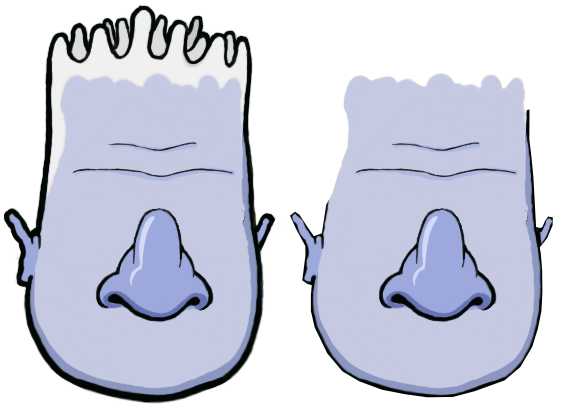
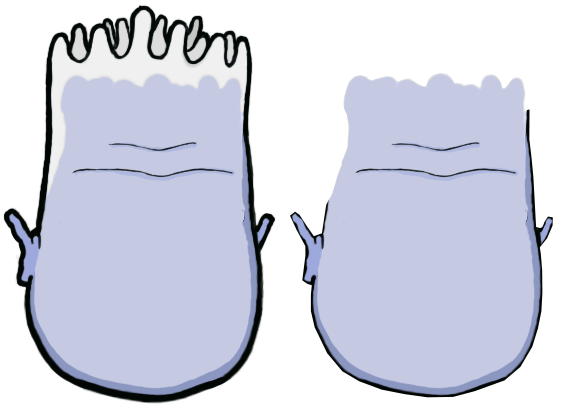
Added noses. Clicking a part multiple times set focus to next part at coords.

Changed region(s): [[0.1502, 0.5, 0.3905, 0.7941], [0.6608, 0.5, 0.9011, 0.7941]]

diff --git a/src/ui/partAuthoring/PartUiManager.ts b/src/ui/partAuthoring/PartUiManager.ts
@@ -1,22 +1,26 @@
 import {
-  createMoveOperation, IPartMovedCallback,
+  createMoveOperation, 
+  hasPartDragged,
+  IPartMovedCallback,
   MoveOperation,
   onCompleteMove,
   onMoveDuringDrag
 } from "./moveOperation";
 import {
   createResizeOperation,
-  findResizeButtonAtCoords, IPartResizedCallback,
+  findResizeButtonAtCoords, 
+  IPartResizedCallback,
   onCompleteResize,
   onResizeDuringDrag,
   ResizeOperation
 } from "./resizeOperation";
 import {
-  findPartAtCoords, 
-  findPartByComponent, 
-  hidePartUi, 
-  loadPartUi, 
-  showPartUi, 
+  findNextPartAtCoords,
+  findPartAtCoords,
+  findPartByComponent,
+  hidePartUi, isPartAtCoords,
+  loadPartUi,
+  showPartUi,
   TrackedPart
 } from "./trackedPart";
 import {CanvasComponent} from "sl-web-face";
@@ -73,9 +77,10 @@ class PartUiManager {
   }
   
   private _onPartClick(part:TrackedPart, clickX:number, clickY:number) {
+    const isNewlyFocusedPart = part !== this._focusedPart;
     this.setFocus(part.component);
     if (!this._focusedPart) throw Error('Unexpected');
-    this._operation = createMoveOperation(this._focusedPart, clickX, clickY);
+    this._operation = createMoveOperation(this._focusedPart, clickX, clickY, isNewlyFocusedPart);
     this._operationType = OperationType.MOVE;
   }
   
@@ -87,7 +92,8 @@ class PartUiManager {
       this._onResizeButtonClick(nextResizeButton, clickX, clickY);
       return;
     }
-    const nextFocusPart = findPartAtCoords(this._trackedParts, clickX, clickY);
+    const nextFocusPart = isPartAtCoords(this._focusedPart as TrackedPart, clickX, clickY) ? 
+      this._focusedPart : findPartAtCoords(this._trackedParts, clickX, clickY);
     if (nextFocusPart) this._onPartClick(nextFocusPart, clickX, clickY);
   }
   
@@ -107,6 +113,15 @@ class PartUiManager {
   
   onMouseUp(event:any) {
     if (!event || !this._focusedPart) return;
+    if (this._operationType === OperationType.MOVE) {
+      const operation = this._operation as MoveOperation;
+      if (!hasPartDragged(this._focusedPart, operation) && !operation.isNewlyFocusedPart) {
+        const mouseUpX = event.nativeEvent.offsetX, mouseUpY = event.nativeEvent.offsetY;
+        const nextFocusPart = findNextPartAtCoords(this._trackedParts, this._focusedPart, mouseUpX, mouseUpY);
+        if (nextFocusPart !== this._focusedPart) this.setFocus(nextFocusPart.component);
+        this._operationType = OperationType.NONE;
+      }
+    }
     this.completeOperations();
   }
   

diff --git a/src/ui/partAuthoring/trackedPart.ts b/src/ui/partAuthoring/trackedPart.ts
@@ -19,15 +19,32 @@ export function showPartUi(part:TrackedPart) { part.selectionBox.isVisible = tru
 
 export function hidePartUi(part:TrackedPart) { part.selectionBox.isVisible = false; }
 
+export function isPartAtCoords(part:TrackedPart, x:number, y:number):boolean {
+  if (!part.component.isVisible) return false;
+  const [ boundX, boundY, boundWidth, boundHeight ] = part.component.boundingRect;
+  return (x >= boundX && x < (boundX+boundWidth) && y >= boundY && y < (boundY+boundHeight));
+}
+
 export function findPartAtCoords(parts:TrackedPart[], x:number, y:number):TrackedPart|null {
   const partCount = parts.length;
-  for(let partI = 0; partI < partCount; ++partI) {
+  for(let partI = partCount - 1; partI >= 0; --partI) {
     const part = parts[partI];
-    if (!part.component.isVisible) continue;
-    const [ boundX, boundY, boundWidth, boundHeight ] = part.component.boundingRect;
-    if (x >= boundX && x < (boundX+boundWidth) && y >= boundY && y < (boundY+boundHeight)) return part;
+    if (isPartAtCoords(part, x, y)) return part;
   }
   return null;
+}
+
+export function findNextPartAtCoords(parts:TrackedPart[], focusedPart:TrackedPart, x:number, y:number):TrackedPart {
+  const partCount = parts.length;
+  let partI = parts.findIndex(part => part === focusedPart);
+  if (partI === -1) return focusedPart;
+  const stopPartI = partI;
+  while(true) {
+    if (++partI === partCount) partI = 0;
+    if (partI === stopPartI) return focusedPart;
+    const part = parts[partI];
+    if (isPartAtCoords(part, x, y)) return part;
+  }
 }
 
 export function findPartByComponent(parts:TrackedPart[], component:CanvasComponent|null):TrackedPart|null {

diff --git a/src/faceBuilderScreen/faceBuilderScreenInteractions.ts b/src/faceBuilderScreen/faceBuilderScreenInteractions.ts
@@ -8,7 +8,8 @@ import {
   FaceDocument,
   LidLevel,
   loadFaceFromUrl,
-  MOUTH_PART_TYPE,
+  MOUTH_PART_TYPE, 
+  NOSE_PART_TYPE,
   publishEvent,
   Topic,
   updateFaceFromDocument
@@ -66,6 +67,10 @@ function _findPartTypeForCanvasComponent(component:CanvasComponent, components:C
     }
     if (partType === MOUTH_PART_TYPE) {
       if (isMatch) return PartType.MOUTH;
+      continue;
+    }
+    if (partType === NOSE_PART_TYPE) {
+      if (isMatch) return PartType.NOSE;
       continue;
     }
     ++extraCount;
@@ -135,8 +140,8 @@ export async function init(setRevision:any):Promise<InitResults> {
   attentionController.start();
   const partComponents = _findPartComponents(head);
   partUiManager = new PartUiManager(onPartFocused, onPartMoved, onPartResized);
-  partComponents.forEach(part => partUiManager?.addPart(part, true, true));
   await partUiManager.addPart(head, false, true);
+  partComponents.forEach(part => partUiManager?.addPart(part, true, true));
   partUiManager.setFocus(head);
 
   const nextRevision:Revision = {
@@ -207,6 +212,10 @@ function _findCanvasComponentForPartType(headComponent:CanvasComponent, partType
       
       case PartType.MOUTH:
         if (childPartType !== MOUTH_PART_TYPE) continue;
+        break;
+        
+      case PartType.NOSE:
+        if (childPartType !== NOSE_PART_TYPE) continue;
         break;
         
       default:

diff --git a/src/ui/partAuthoring/moveOperation.ts b/src/ui/partAuthoring/moveOperation.ts
@@ -13,7 +13,9 @@ export type MoveOperation = {
 
   // Part component values prior to changes made by dragging.
   previousX:number,
-  previousY:number
+  previousY:number,
+  
+  isNewlyFocusedPart:boolean
 }
 
 function _revertPartMove(part:TrackedPart, operation:MoveOperation) {
@@ -32,10 +34,15 @@ export function onMoveDuringDrag(part:TrackedPart, operation:MoveOperation, mous
   part.component.y = mouseMoveY + operation.dragOffsetY;
 }
 
-export function createMoveOperation(part:TrackedPart, clickX:number, clickY:number):MoveOperation {
+export function createMoveOperation(part:TrackedPart, clickX:number, clickY:number, isNewlyFocusedPart:boolean):MoveOperation {
   const { x, y } = part.component;
   return {
     previousX: x, previousY: y,
-    dragOffsetX: x - clickX, dragOffsetY: y - clickY
+    dragOffsetX: x - clickX, dragOffsetY: y - clickY,
+    isNewlyFocusedPart
   };
+}
+
+export function hasPartDragged(part:TrackedPart, operation:MoveOperation):boolean {
+  return part.component.x !== operation.previousX || part.component.y !== operation.previousY;
 }

diff --git a/src/faceBuilderScreen/PartSelector.tsx b/src/faceBuilderScreen/PartSelector.tsx
@@ -4,6 +4,7 @@ export enum PartType {
   HEAD,
   EYES, 
   MOUTH, 
+  NOSE,
   EXTRA1,
   EXTRA2,
   EXTRA3,
@@ -12,7 +13,7 @@ export enum PartType {
   
   COUNT
 }
-const optionNames = ['Head', 'Eyes', 'Mouth', 'Extra #1', 'Extra #2', 'Extra #3', 'Extra #4', 'Extra #5'];
+const optionNames = ['Head', 'Eyes', 'Mouth', 'Nose', 'Extra #1', 'Extra #2', 'Extra #3', 'Extra #4', 'Extra #5'];
 
 interface IProps {
   disabled?:boolean,
